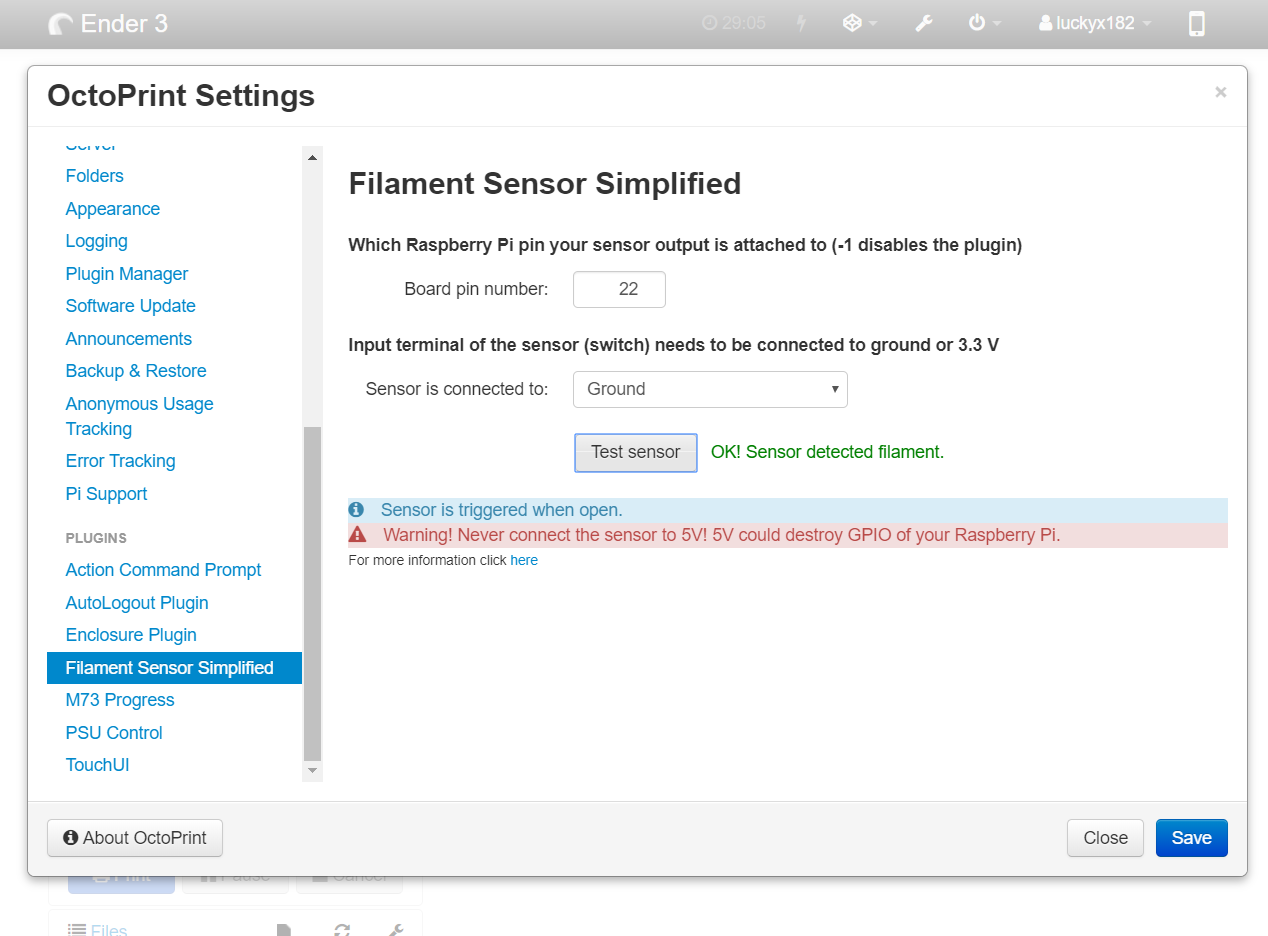
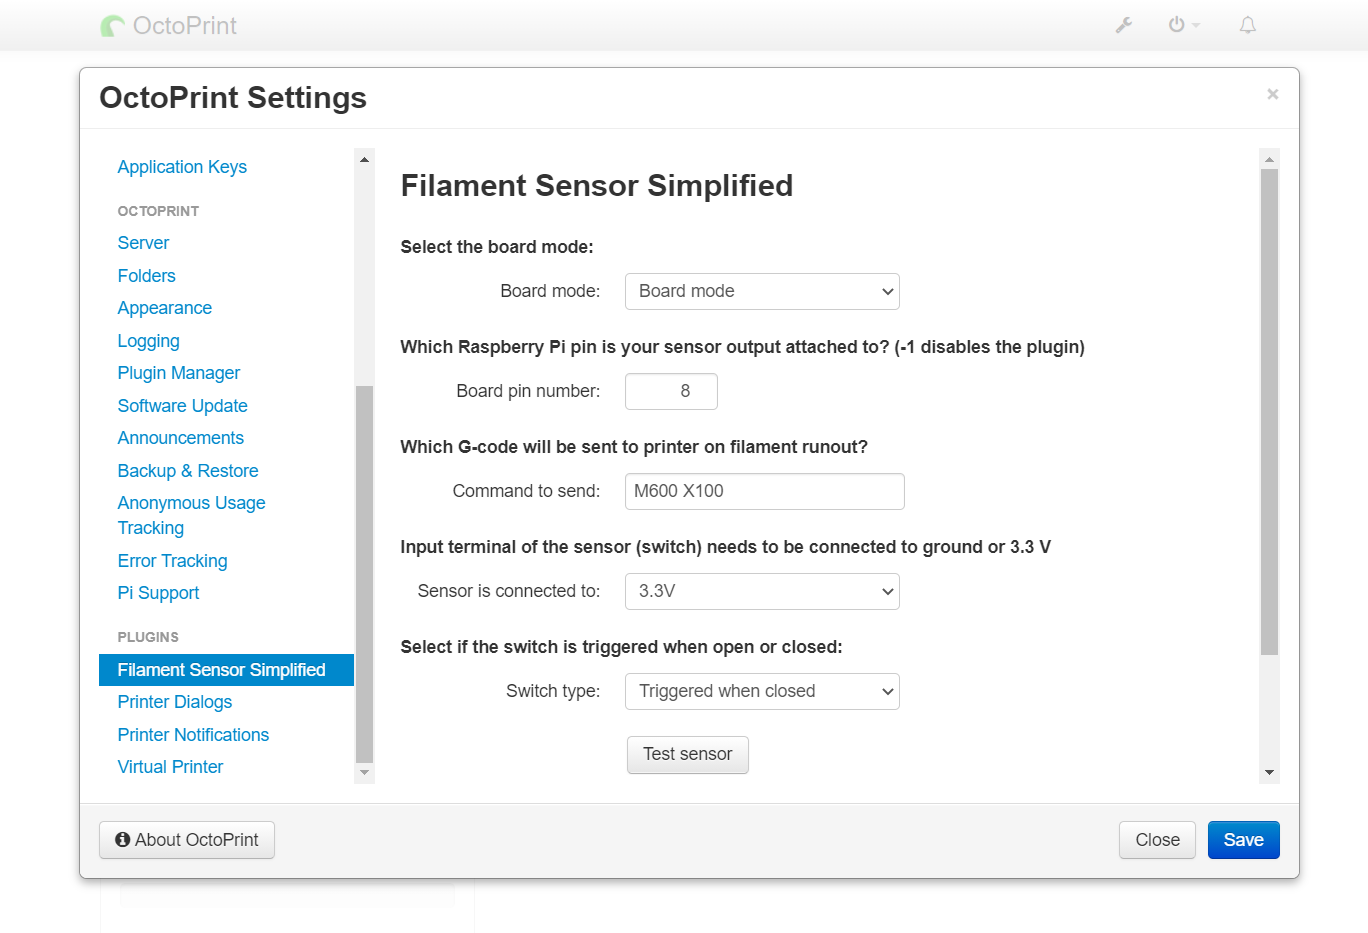
Documentation + small updates

diff --git a/octoprint_filamentsensorsimplified/__init__.py b/octoprint_filamentsensorsimplified/__init__.py
@@ -126,14 +126,17 @@ class Filament_sensor_simplifiedPlugin(octoprint.plugin.StartupPlugin,
 				GPIO.setmode(GPIO.BCM)
 
 			# before read don't let the pin float
+			self._logger.debug("selected power is %s" % selected_power)
 			if selected_power is 0:
 				GPIO.setup(selected_pin, GPIO.IN, pull_up_down=GPIO.PUD_UP)
 			else:
 				GPIO.setup(selected_pin, GPIO.IN, pull_up_down=GPIO.PUD_DOWN)
 			pin_value = GPIO.input(selected_pin)
+			self._logger.debug("pin value is %s" % pin_value)
 			# reset input to pull down after read
 			GPIO.cleanup(selected_pin)
 			triggered_bool = (pin_value + selected_power + triggered) % 2 is 0
+			self._logger.debug("triggered value %s" % triggered_bool)
 			return flask.jsonify(triggered=triggered_bool)
 		except ValueError:
 			# ValueError occurs when reading from power, ground or out of range pins

diff --git a/README.md b/README.md
@@ -1,7 +1,7 @@
 # Filament sensor simplified
 
 This plugin reacts to short lever microswitch output like [this](https://chinadaier.en.made-in-china.com/product/ABVJkvyMAqcT/China-1A-125VAC-on-off-Kw10-Mini-Micro-Mouse-Switch.html)
-If triggered (switch open) it issues **M600 X0 Y0** command to printer.
+If triggered it issues configured command to printer.
 
 Let's check some features:
 * pop-up notification when printer runs out of filament
@@ -9,12 +9,20 @@ Let's check some features:
 * test button so you know if your sensor really works or not
 * filament check at the start of the print - if no filament present it won't start printing, again pop-up will appear
 * filament check at the end of filament change - just to be sure you won't start printing with no filament
-* check if printer supports M600 when printer connected - if not user will be notified through pop-up
+* check if printer supports M600 when printer connected and gcode starts with M600 - if not user will be notified through pop-up
 * info pop-up when plugin hasn't been configured
 * filament runouts can be repeatable which didn't work with other plugins I tried
 * user-friendly and easy to configure
 * pin validation so you don't accidentally save wrong pin number
+* detection of used GPIO mode - this makes it compatible with other plugins
 * runs on OctoPrint 1.3.0 and higher
+
+Configurable fields:
+* mode - BOARD/BCM
+* pin number
+* gcode sent on filament runout
+* sensor power input
+* trigger mode
 
 **NOTE: this plugin won't work if you use OctoPrint only to start printing from SD card**
 
